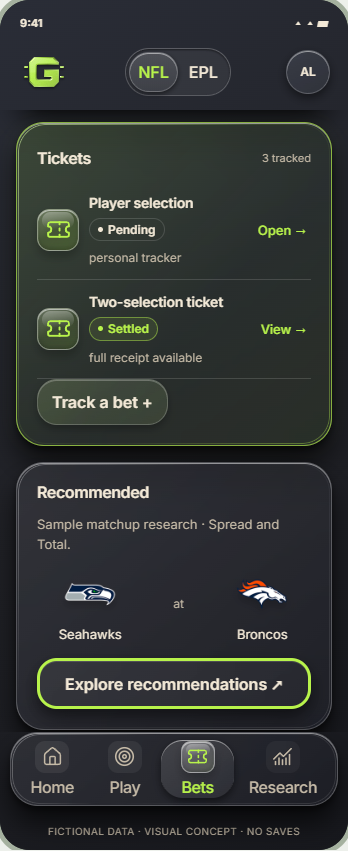
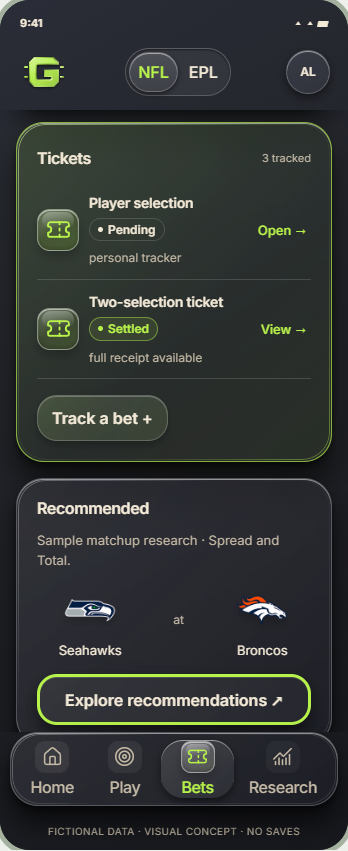
Separate Track a bet button from ticket divider

diff --git a/design/style-directions-2026-11-04/visual-content-review.js b/design/style-directions-2026-11-04/visual-content-review.js
@@ -28,6 +28,7 @@ const css=`
  .phone[data-visual-review] .content-pick{min-height:170px}.content-pick .visual-matchup .team-mark{width:44px;height:44px}.content-pick .visual-matchup>span{font-size:11px}.phone[data-visual-review] .content-pick>b{font-size:18px;margin:2px 0}
  .phone[data-play-logo-tiles] .content-pick .visual-matchup{background:transparent;box-shadow:none;gap:5px}.phone[data-play-logo-tiles] .content-pick .team-logo-tile{display:grid;place-items:center;width:42px;height:42px;border-radius:12px;background:var(--pc-small-surface);border:1px solid var(--pc-border);box-shadow:inset 0 1px 0 var(--pc-edge-1),0 4px 8px var(--pc-shadow);backdrop-filter:blur(12px)}.phone[data-play-logo-tiles] .content-pick .team-logo-tile .team-mark{width:34px;height:34px}.phone[data-play-logo-tiles] .content-pick .visual-matchup>span{min-width:0}
  .phone[data-visual-review] .visual-ticket-row{gap:10px;align-items:center}.phone[data-visual-review] .visual-ticket-row>.team-code{background:transparent!important;border:0!important;box-shadow:none!important;flex:0 0 42px}.phone[data-visual-review] .visual-ticket-row>.team-code:before,.phone[data-visual-review] .visual-ticket-row>.team-code:after{display:none!important}.visual-ticket-row .row-text{min-width:0}.visual-ticket-row .ticket-status{display:inline-flex;align-items:center;gap:5px;width:fit-content;padding:3px 8px;margin:5px 0;border:1px solid var(--pc-line);border-radius:99px;color:var(--ink);font-size:12px;font-weight:600;line-height:1.3}.ticket-status:before{content:"";width:5px;height:5px;border-radius:50%;background:currentColor}.visual-ticket-row .ticket-status.is-settled{color:var(--accent);border-color:color-mix(in srgb,var(--accent) 45%,transparent);background:color-mix(in srgb,var(--accent) 9%,transparent)}.phone[data-visual-review] .visual-ticket-row .quiet{min-height:44px;flex-shrink:0;padding-inline:5px;font-size:13px}
+ .phone[data-visual-review] .visual-ticket-row + [data-action="detail:tracking"]{margin-top:16px}
  `;
 const head=(name,icon)=>'<span class="visual-card-head">'+glyph(icon)+name+'<small aria-hidden="true">↗</small></span>';
 function matchupTiles(screen,d){screen.querySelectorAll('.visual-matchup .team-mark').forEach(img=>{if(img.parentElement.classList.contains('team-logo-tile'))return;const tile=d.createElement('span');tile.className='team-logo-tile';img.before(tile);tile.append(img);});}

diff --git a/design/style-directions-2026-11-04/README.md b/design/style-directions-2026-11-04/README.md
@@ -3,6 +3,19 @@
 Owner: Sean Balsiger · Version 31 · November 4, 2026
 
 
+## Track a bet button cleared from ticket divider — November 5, 2026
+
+Sean reported the Track a bet bubble touching/overlapping the divider below the
+two-selection ticket in the phone capture. Computed bounds reproduced zero gap
+at 320/390/768/1440px in both themes. A scoped 16px top margin on the tracking
+button now separates its glass edge and shadow from the last row divider.
+The same measurement check passed at all eight theme/width combinations, with
+no overflow and preserved 44px targets; four ticket opens and two tracking opens
+also passed. Updated dark/light phone captures were inspected. JavaScript syntax,
+Brand document QA and whitespace checks passed. This fixes the mockup spacing;
+visual approval remains pending. Production and parked Signal files are untouched.
+
+
 ## Bets glossy ticket icons and status badges — November 5, 2026
 
 Sean authorized the Bets mockup and clarified that he is on a phone and cannot

diff --git a/docs/COMPLETION_REGISTER.md b/docs/COMPLETION_REGISTER.md
@@ -1,5 +1,18 @@
 # Guess The Line — current completion register
 
+## Track a bet button cleared from ticket divider — November 5, 2026
+
+Sean reported the Track a bet bubble touching/overlapping the divider below the
+two-selection ticket in the phone capture. Computed bounds reproduced zero gap
+at 320/390/768/1440px in both themes. A scoped 16px top margin on the tracking
+button now separates its glass edge and shadow from the last row divider.
+The same measurement check passed at all eight theme/width combinations, with
+no overflow and preserved 44px targets; four ticket opens and two tracking opens
+also passed. Updated dark/light phone captures were inspected. JavaScript syntax,
+Brand document QA and whitespace checks passed. This fixes the mockup spacing;
+visual approval remains pending. Production and parked Signal files are untouched.
+
+
 ## Bets glossy ticket icons and status badges — November 5, 2026
 
 Sean authorized the Bets mockup and clarified that he is on a phone and cannot
